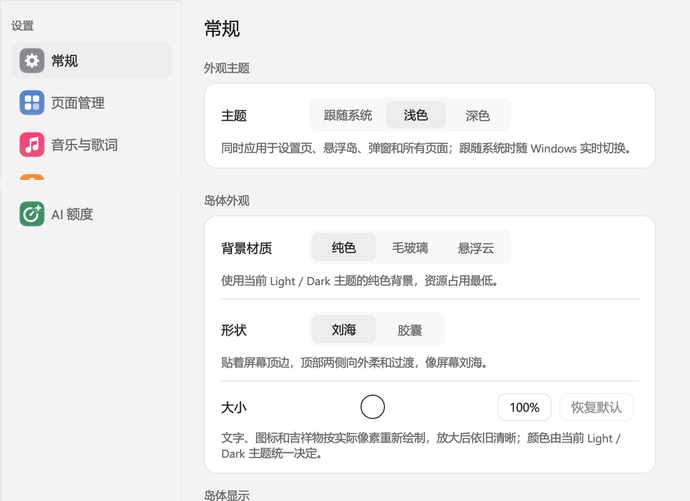
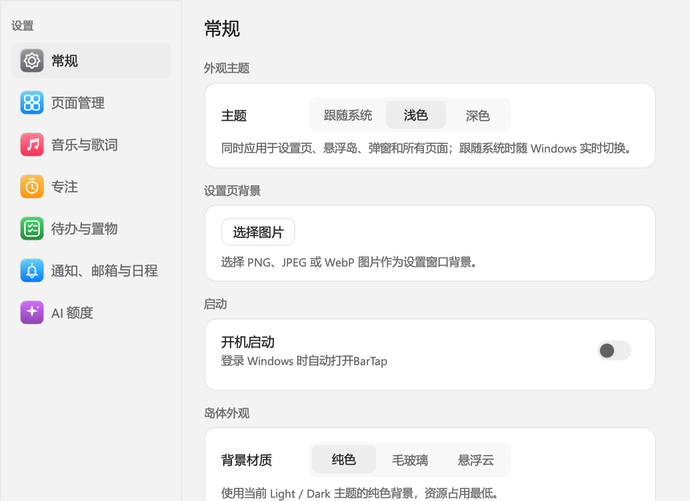
style(settings): 重绘设置侧栏图标

diff --git a/README_EN.md b/README_EN.md
@@ -44,6 +44,7 @@ The interface follows the **Windows 11 Fluent Design / WinUI 3 visual language**
 - **One component language**: buttons, switches, inputs, cards, menus, dialogs and custom-drawn island content share Fluent tokens.
 - **Full coverage**: settings, mail reader, update dialog, quota connection and calendar dialogs all support Light and Dark.
 - **Settings background**: choose a local PNG / JPEG / WebP image for the settings window and adjust a readability scrim.
+- **Settings sidebar icons**: unified Apple-style rounded gradient tiles with fine white line symbols.
 - **Direct resize**: expand the island and drag the bottom-right handle; double-click the handle to reset to 100%.
 - **Readability first**: no white inputs on dark surfaces and no dark menus or low-contrast text on light surfaces.
 

diff --git a/CHANGELOG.md b/CHANGELOG.md
@@ -5,6 +5,7 @@
 - 新增性能页：CPU、内存、网络吞吐与系统盘剩余空间。
 - CPU、内存提供 60 秒迷你趋势；网络显示实时上下行；存储显示剩余容量。
 - 每秒采样，离开性能页后暂停；可在页面管理中关闭或调整顺序。
+- 设置侧栏图标重绘为 Apple 风格圆角渐变底板与白色细线符号。
 - 不采集风扇、温度、GPU、磁盘 I/O 或进程名。
 
 ## 2026-11-09 · 1.0.4
